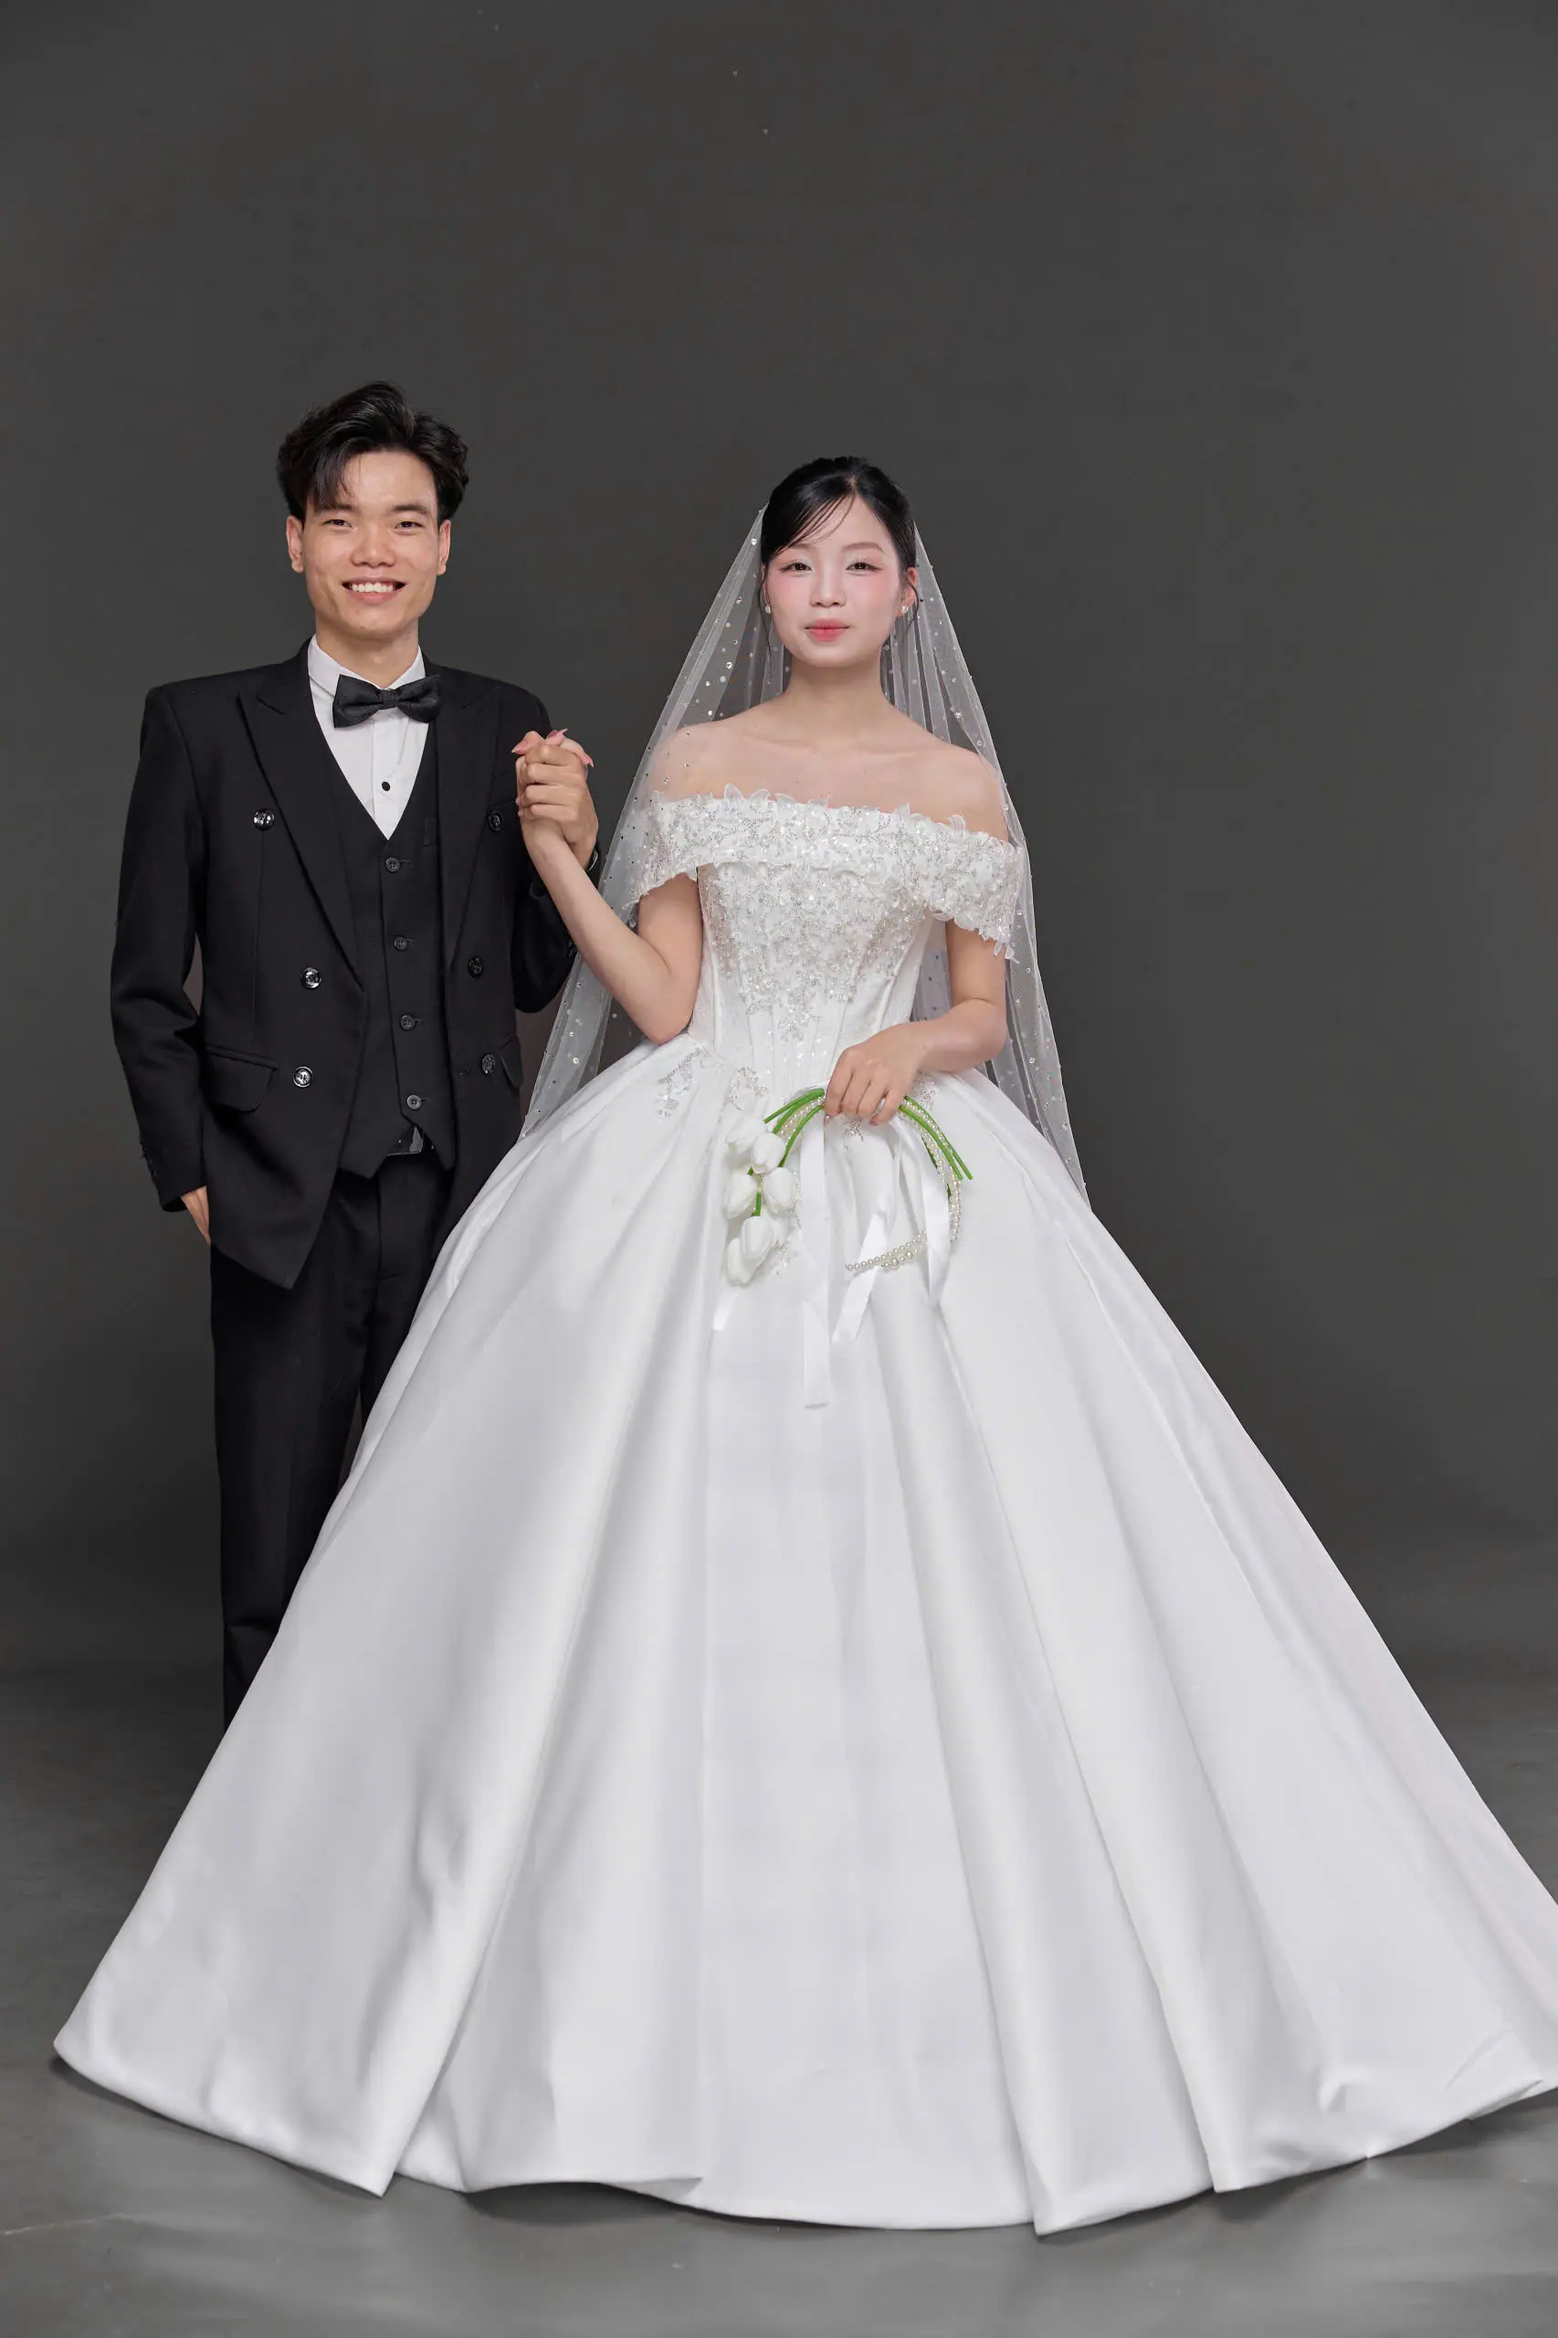
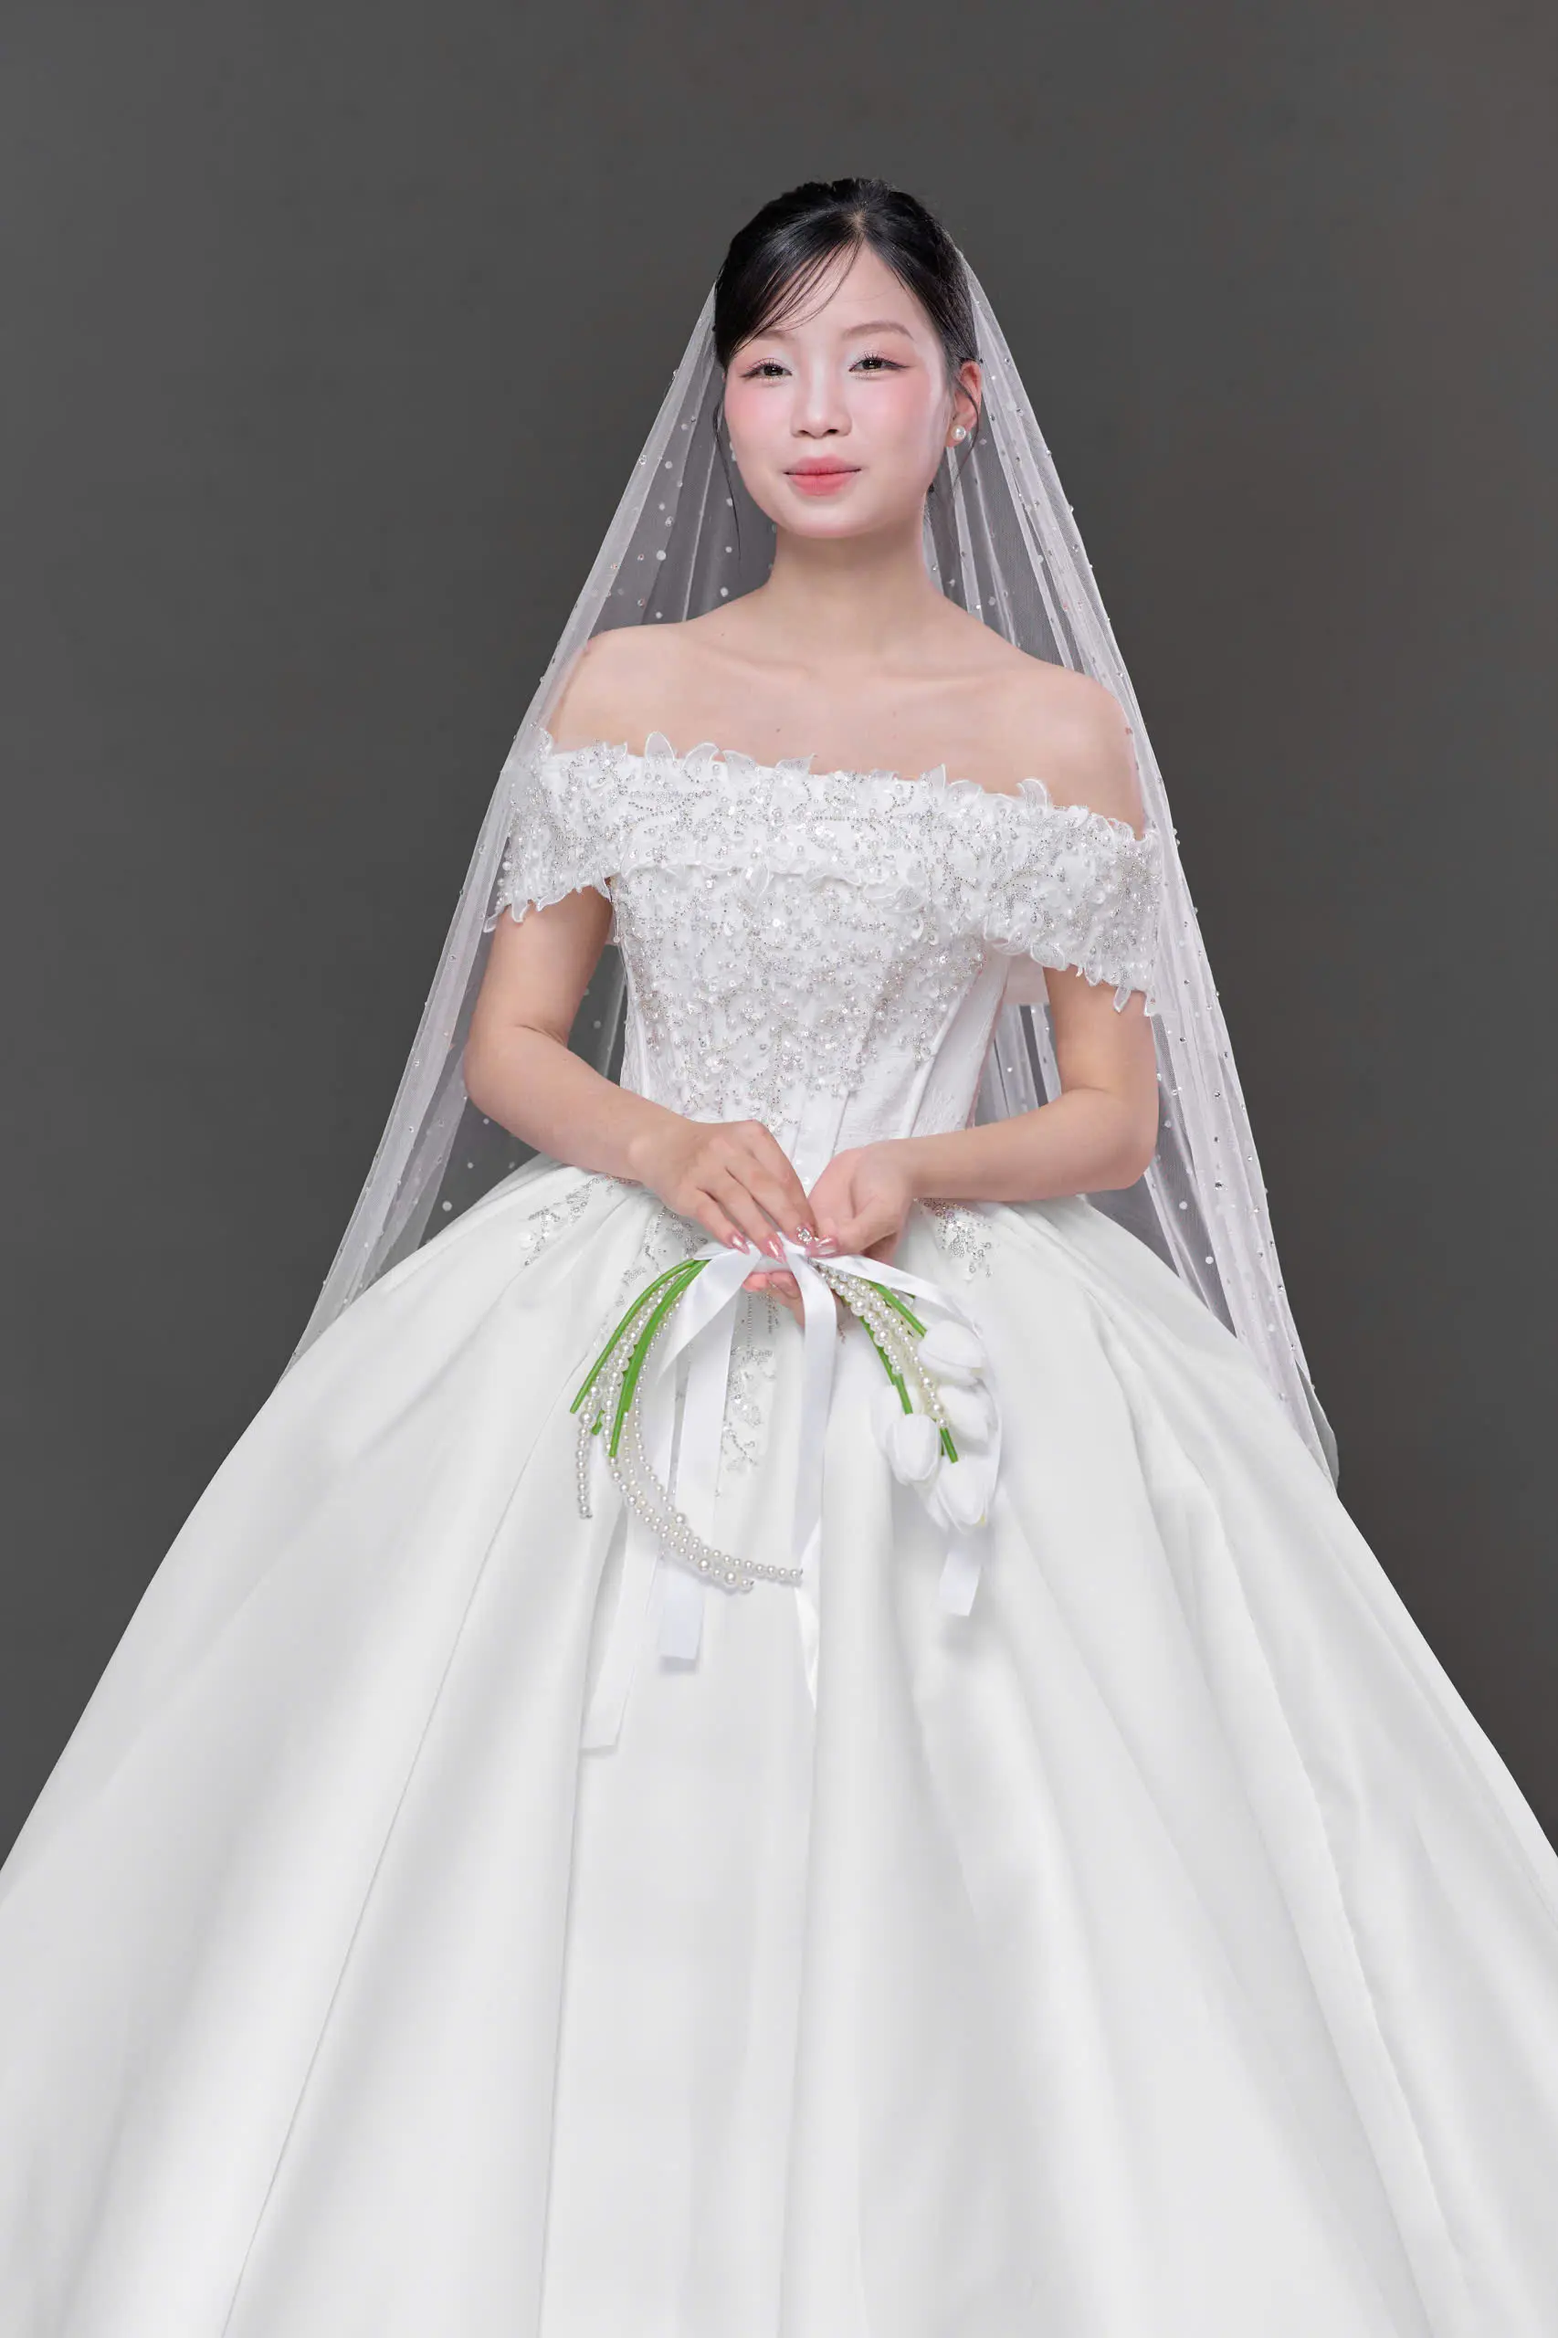
Add files via upload

diff --git a/index.html b/index.html
@@ -7,7 +7,7 @@
 <meta name="theme-color" content="#FFF7F2"/>
 <meta property="og:title" content="Như Quân & Như Quỳnh – Wedding Invitation"/>
 <meta property="og:description" content="Wedding Invitation – 16:30 · 17.10.2026 · 08.09 ÂL"/>
-<meta property="og:image" content="hero.webp"/>
+<meta property="og:image" content="https://weddinginvitationhappy.github.io/Quan-Quynh/hero.webp"/>
 <meta property="og:image:width" content="1200"/>
 <meta property="og:image:height" content="630"/>
 <link rel="preload" as="image" href="1.webp" fetchpriority="high"/>
@@ -1354,7 +1354,7 @@ body{letter-spacing:.003em}
 /* Particles: fewer, softer, more premium */
 .flash{box-shadow:0 0 16px rgba(255,255,255,.72);animation-duration:1.3s}
 .petal{filter:drop-shadow(0 6px 14px rgba(172,92,115,.12));opacity:.72}
-.falling-heart{color:rgba(186,103,128,.28);text-shadow:0 5px 20px rgba(184,95,117,.10)}
+.falling-heart{color:rgba(186,103,128,.34);text-shadow:0 5px 20px rgba(184,95,117,.12),0 0 12px rgba(255,255,255,.42);filter:drop-shadow(0 7px 16px rgba(184,95,117,.08));transform-origin:center center}
 #bar{background:linear-gradient(to top,rgba(255,249,250,.98),rgba(255,249,250,.80),transparent)}
 #bar input{border-color:rgba(201,165,111,.18);box-shadow:0 8px 30px rgba(98,58,70,.06)}
 
@@ -1611,20 +1611,20 @@ body{letter-spacing:.003em}
     <span class="room-no" data-reveal>Room 08 · Gift Counter</span>
     <span class="room-title" data-reveal data-delay="1">Wedding Gift</span>
     <span class="room-script" data-reveal data-delay="2">Phong bì yêu thương</span>
-    <p class="room-sub" data-reveal data-delay="3">Mục quà mừng đang tạm khóa cho đến khi cập nhật đúng mã QR của cô dâu và chú rể.</p>
+    <p class="room-sub" data-reveal data-delay="3">Quét mã QR để gửi một chút yêu thương đến cô dâu &amp; chú rể ♡</p>
     <div class="gift-grid" data-reveal data-delay="4">
       <article class="gift-person" id="giftBride">
         <div class="gift-icon">♡</div>
         <small>Cô dâu</small>
         <h3>Như Quỳnh</h3>
-        <button class="gift-toggle" type="button" disabled title="Hãy thay qrcd.webp bằng QR của Như Quỳnh rồi bỏ thuộc tính disabled">QR cô dâu chưa cập nhật</button>
+        <button class="gift-toggle" type="button" data-qr="qrcd.webp" data-person="Cô dâu Như Quỳnh" data-note="Quét mã QR để gửi quà mừng tới cô dâu Như Quỳnh">Mở QR cô dâu</button>
         <p class="gift-hint">Chạm để mở mã QR kích thước lớn.</p>
       </article>
       <article class="gift-person" id="giftGroom">
         <div class="gift-icon">♡</div>
         <small>Chú rể</small>
         <h3>Như Quân</h3>
-        <button class="gift-toggle" type="button" disabled title="Hãy thay qrcr.webp bằng QR của Như Quân rồi bỏ thuộc tính disabled">QR chú rể chưa cập nhật</button>
+        <button class="gift-toggle" type="button" data-qr="qrcr.webp" data-person="Chú rể Như Quân" data-note="Quét mã QR để gửi quà mừng tới chú rể Như Quân">Mở QR chú rể</button>
         <p class="gift-hint">Chạm để mở mã QR kích thước lớn.</p>
       </article>
     </div>
@@ -2218,24 +2218,24 @@ let fallingHeartTimer;
 function makeFallingHeart(){
   if(document.hidden)return;
   const layer=document.getElementById('romanticHeartLayer');
-  if(!layer||layer.children.length>=18)return;
+  if(!layer||layer.children.length>=52)return;
   const h=document.createElement('span');
   h.className='falling-heart';
-  h.textContent=['♡','♡','♡','♥','ღ','❥'][Math.floor(Math.random()*6)];
+  h.textContent=['♡','♡','♡','♡','♡','♥','ღ','❥'][Math.floor(Math.random()*8)];
   h.style.left=(Math.random()*100)+'%';
-  h.style.fontSize=(12+Math.random()*22)+'px';
-  h.style.setProperty('--heart-opacity',(0.08+Math.random()*.20).toFixed(2));
-  h.style.setProperty('--heart-duration',(8+Math.random()*7)+'s');
-  h.style.setProperty('--heart-drift',((Math.random()-.5)*140)+'px');
+  h.style.fontSize=(11+Math.random()*28)+'px';
+  h.style.setProperty('--heart-opacity',(0.10+Math.random()*.30).toFixed(2));
+  h.style.setProperty('--heart-duration',(7+Math.random()*7)+'s');
+  h.style.setProperty('--heart-drift',((Math.random()-.5)*190)+'px');
   h.style.setProperty('--heart-rotate',((Math.random()-.5)*520)+'deg');
-  h.style.setProperty('--heart-scale',(0.72+Math.random()*.7).toFixed(2));
+  h.style.setProperty('--heart-scale',(0.62+Math.random()*1.05).toFixed(2));
   layer.appendChild(h);
-  setTimeout(()=>h.remove(),15500);
+  setTimeout(()=>h.remove(),16000);
 }
 function startFallingHearts(){
   if(fallingHeartTimer)return;
-  for(let i=0;i<4;i++)setTimeout(makeFallingHeart,i*260);
-  fallingHeartTimer=setInterval(makeFallingHeart,1350);
+  for(let i=0;i<16;i++)setTimeout(makeFallingHeart,i*90);
+  fallingHeartTimer=setInterval(makeFallingHeart,420);
 }
 </script>
 </body>
